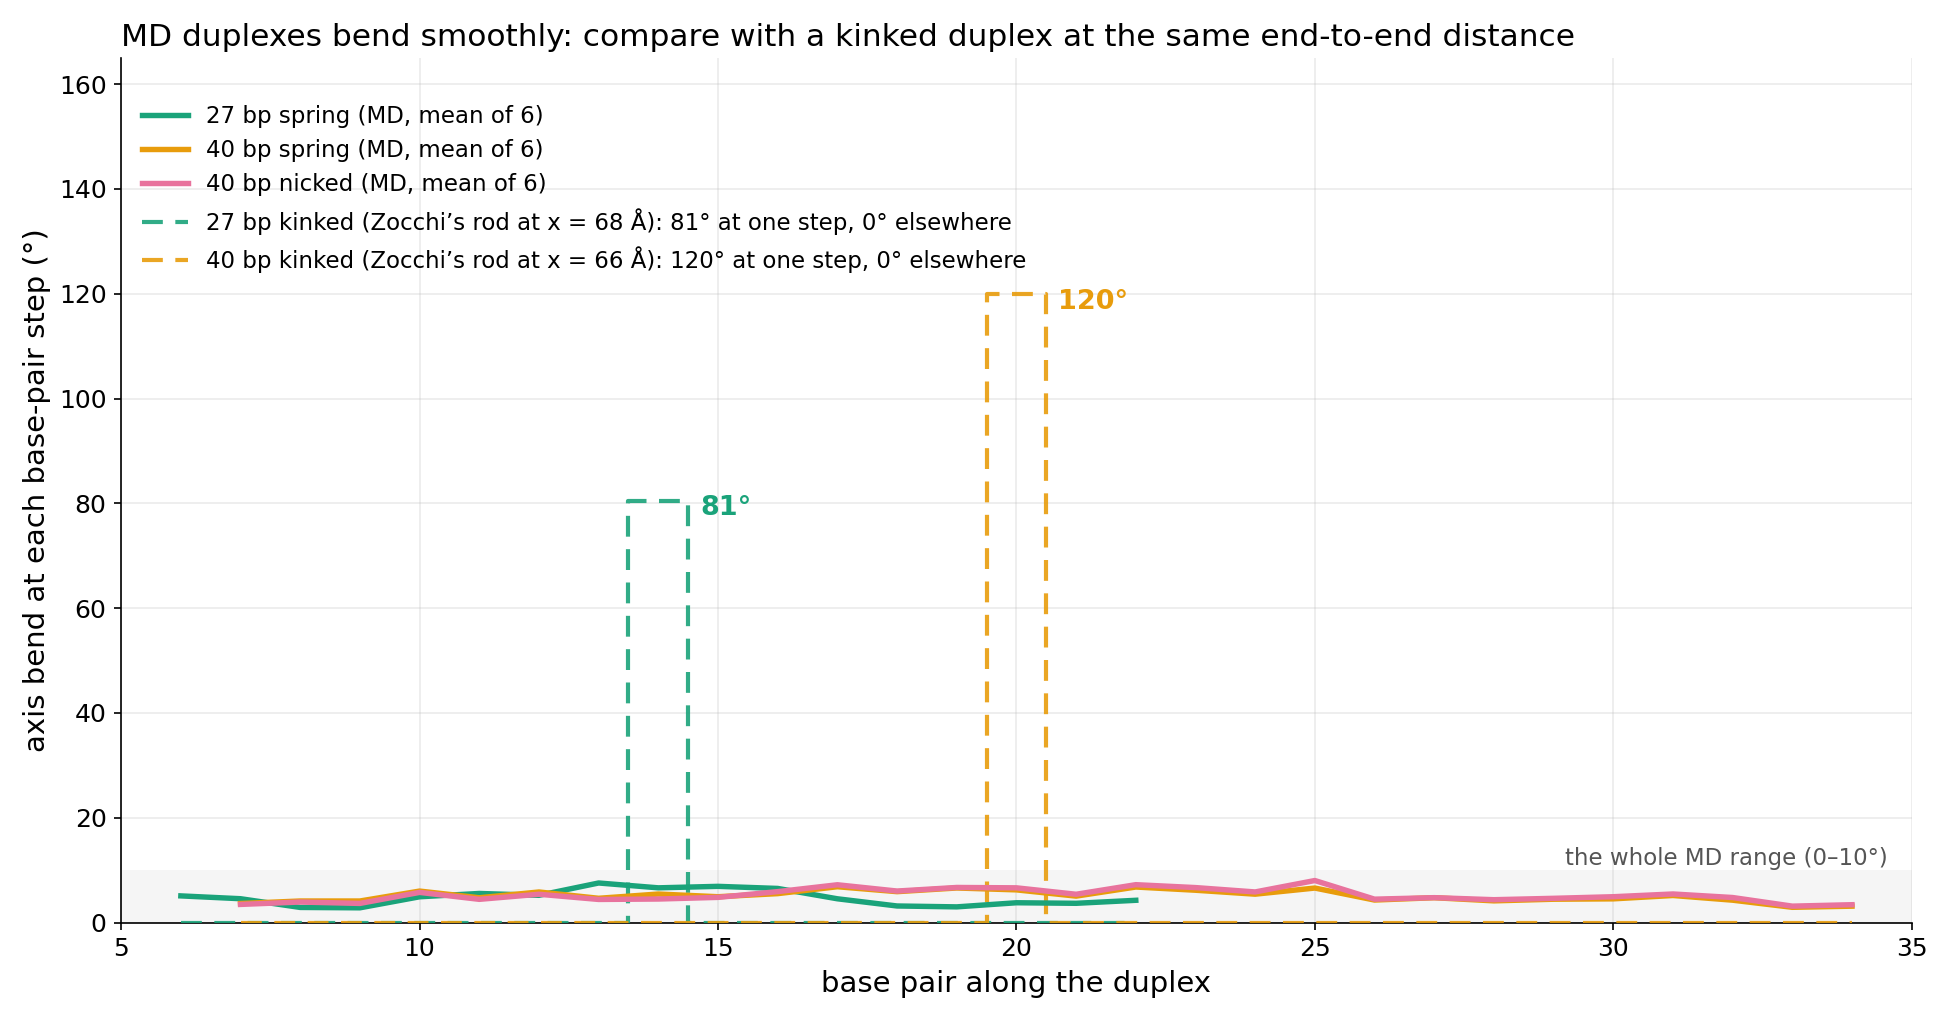
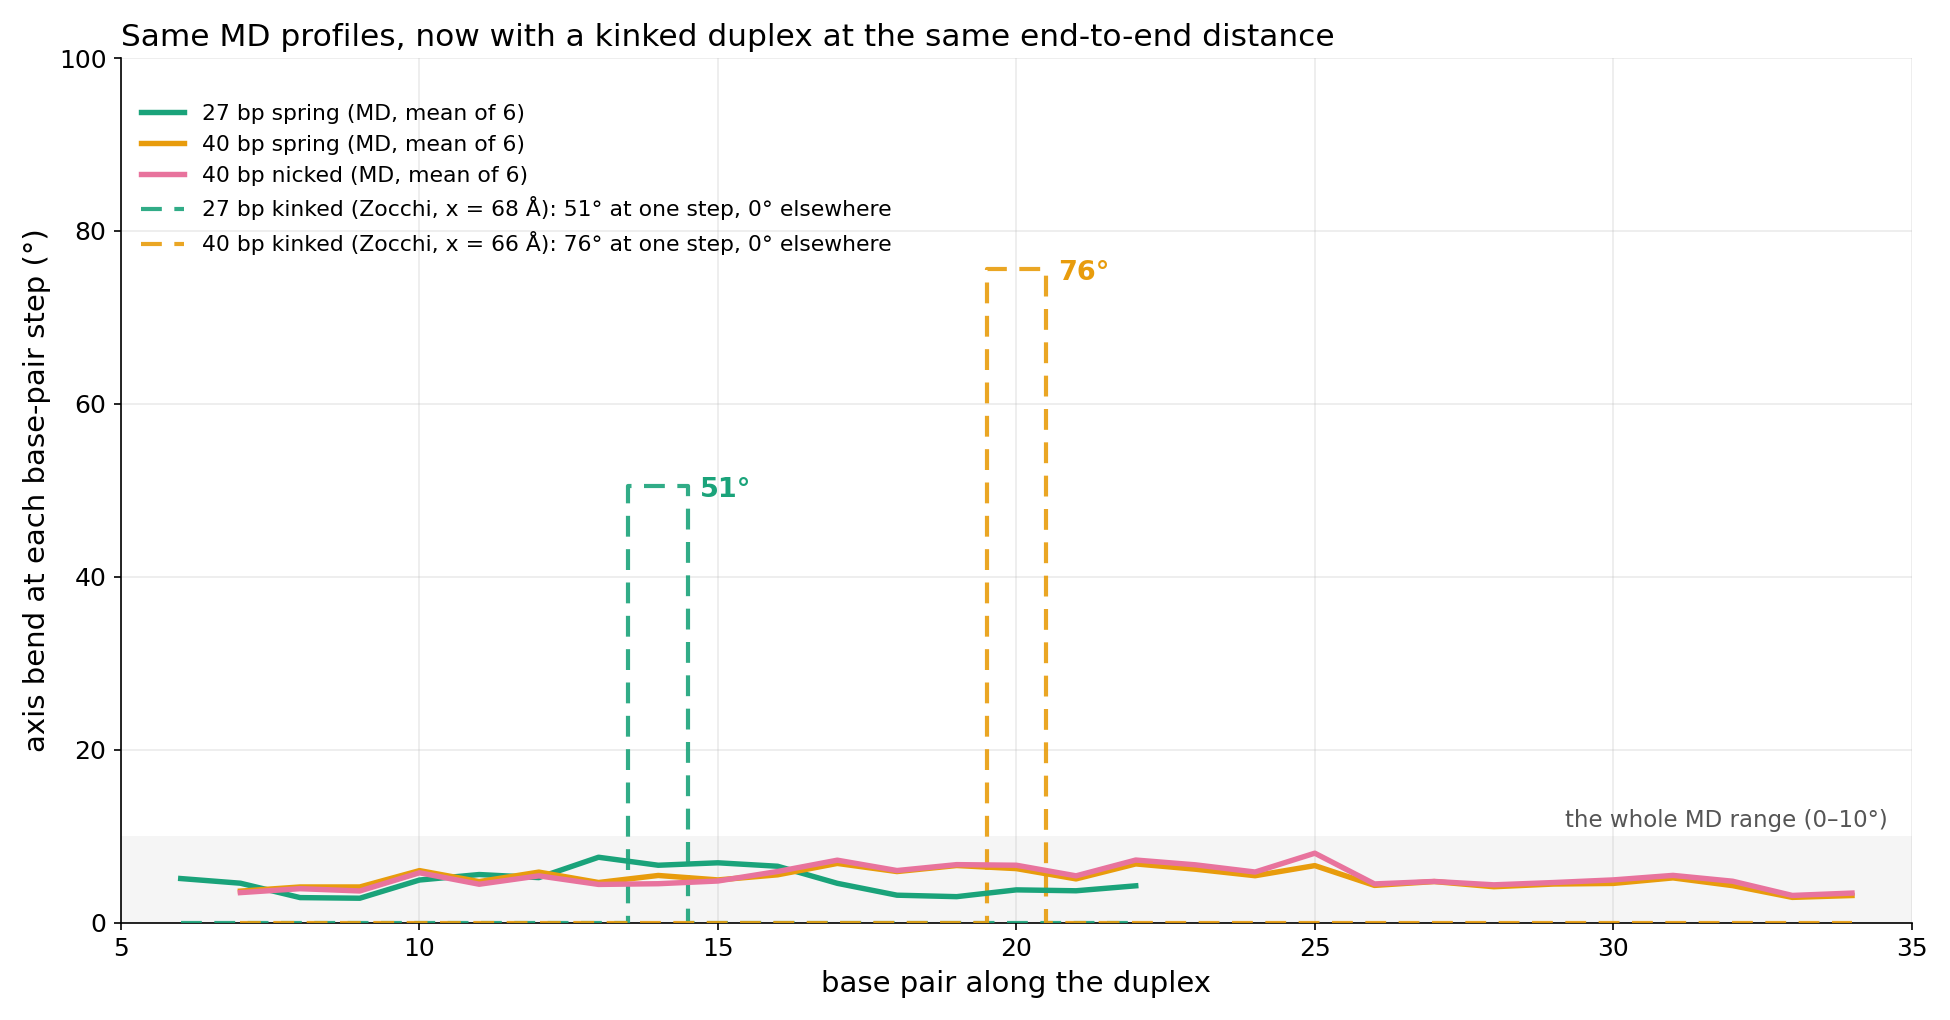
Lab meeting deck: DNA dynamics shows the MD-only bend profiles first, then overlays the Zocchi kink
Kink angles now follow Molecular Machines Fig. 2.31 / eqs 2.177-2.178 (bend = 2 theta,
51 deg for 27 bp, 76 deg for 40 bp) instead of a straight-arm estimate; an equation box
cites the textbook equations.

Claude-Session: https://claude.ai/code/session_01XUYAW9KRYac2ms85dJyAim

diff --git a/presentations/lab-meeting-261029/template.html b/presentations/lab-meeting-261029/template.html
@@ -248,6 +248,10 @@ body {
 .m-aside b { color: var(--ink); }
 .m-aside ul { margin: 8px 0 0; padding-left: 22px; }
 .m-pts.big { gap: 22px; } .m-pts.big .m-pt { font-size: 29px; } .m-pts.big .m-pt::before { top: .5em; }
+.m-eqbox { position: absolute; left: 1290px; top: 690px; width: 566px; background: var(--paper-2); border-left: 6px solid var(--sec, var(--ink-3)); border-radius: 10px; padding: 12px 18px; font-size: 16px; line-height: 1.35; color: var(--ink-2); box-sizing: border-box; opacity: 0; transition: opacity .35s; }
+.m-eqbox.on { opacity: 1; }
+.m-eqbox .tex.d { margin: 2px 0; }
+.m-eqbox .tex.d math { font-size: 1.3em; }
 .m-banner { position: absolute; left: 50%; top: 52%; width: 1380px; transform: translate(-50%, -46%) scale(.96); opacity: 0; pointer-events: none; z-index: 4;
   background: var(--paper); border: 3px solid var(--amber); border-radius: 22px; padding: 44px 56px; box-shadow: 0 0 0 100vmax color-mix(in srgb, var(--paper) 72%, transparent), 0 24px 60px rgba(0,0,0,.28);
   font-size: 36px; line-height: 1.4; color: var(--ink-2); transition: opacity .45s ease, transform .45s ease; }
@@ -1026,6 +1030,9 @@ function buildMedia(el, cfg) {
     if (it.cap) box.appendChild(h('div', 'm-cap', { html: it.cap }));
     el.appendChild(box); return box;
   });
+  // equation box: shown under the points once a point with alt: true is reached
+  const eqBox = cfg.eqbox ? h('div', 'm-eqbox', { html: cfg.eqbox }) : null;
+  if (eqBox) el.appendChild(eqBox);
   if (cfg.q) el.appendChild(h('div', 'm-q', { text: cfg.q, style: { left: ptBox.x + 'px', top: (top + 6) + 'px', width: ptBox.w + 'px' } }));
   const ex = cfg.explain || [], E = ex.length;
   const exBox = h('div', 'm-ex', { style: { left: '64px', top: (top + (cfg.exH || 600) + 24) + 'px', width: '1792px' } });
@@ -1072,6 +1079,7 @@ function buildMedia(el, cfg) {
         return;
       }
       const alt = !!(pts[k - E] && pts[k - E].alt);
+      if (eqBox) eqBox.classList.toggle('on', alt);
       items.forEach((it, i) => place(i, boxes[i], it.over != null ? !alt : items.some(o => o.over === i) && alt));
       exBox.classList.remove('on'); ul.style.opacity = 1; if (qEl) qEl.style.opacity = 1;
       k = k - E + 1;

diff --git a/presentations/lab-meeting-261029/md/dna_bend_kink.py b/presentations/lab-meeting-261029/md/dna_bend_kink.py
@@ -13,33 +13,52 @@ REPO = ROOT.parent.parent
 rows = list(csv.DictReader(open(REPO / 'MD simulations/sfGFP/figures/fig4_dna_bend.csv')))
 SER = [('S3_spring27', '27 bp spring (MD, mean of 6)', '#1aa37a'), ('S4_spring40', '40 bp spring (MD, mean of 6)', '#e89c0c'),
        ('S5_spring40nick', '40 bp nicked (MD, mean of 6)', '#e8739d')]
-def kink_bend(n_bp, x_nm):                       # Zocchi's kinked rod: bend at the apex between two straight arms
-    half = 0.33 * n_bp / 2; h = math.sqrt(half ** 2 - (x_nm / 2) ** 2); return math.degrees(2 * math.atan2(h, x_nm / 2))
+import sys
+sys.path.insert(0, str(REPO / 'MD simulations/sfGFP/analysis'))
+from spring_model import Spring  # noqa: E402
+def kink_bend(n_bp, x_nm):
+    """Bend at the kink, Zocchi Molecular Machines Fig. 2.31: internal angle pi - 2*theta, so bend = 2*theta,
+    theta = arccos(x/2R) - Delta (eq. 2.177), Delta = arccos(x_c/2R) (eq. 2.178), R and x_c from eqs 2.197, 2.194."""
+    sp = Spring(n_bp, tau_c=34.0)
+    return math.degrees(2 * (math.acos(x_nm / (2 * sp.R)) - math.acos(sp.x_c / (2 * sp.R))))
 K = [(27, 6.8, 14, '#1aa37a'), (40, 6.6, 20, '#e89c0c')]   # n_bp, chimera end-to-end (nm), kink position (bp), colour
-fig, ax = plt.subplots(figsize=(13, 6.8), dpi=150)
-marks = {}
-for key, lab, col in SER:
-    pts = [(int(r['bp']), float(r[key])) for r in rows if r[key]]
-    ax.plot(*zip(*pts), color=col, lw=2.6, label=lab, zorder=4)
-    marks['dk_md_' + key] = max(pts, key=lambda p: p[1])
-for n, x, pos, col in K:
-    b = kink_bend(n, x); first = 6 if n == 27 else 7; last = 22 if n == 27 else 34
-    xs = list(range(first, last + 1)); ys = [b if s == pos else 0 for s in xs]
-    ax.step(xs, ys, where='mid', color=col, lw=2, ls=(0, (5, 3)), alpha=.9, zorder=3,
-            label=f'{n} bp kinked (Zocchi’s rod at x = {x * 10:.0f} Å): {b:.0f}° at one step, 0° elsewhere')
-    ax.text(pos + .7, b + 1, f'{b:.0f}°', color=col, fontsize=13, fontweight='bold', va='top')
-    marks[f'dk_kink{n}'] = (pos, b)
-ax.axhspan(0, 10, color='#888', alpha=.08, lw=0)
-ax.text(34.6, 11, 'the whole MD range (0–10°)', ha='right', fontsize=11, color='#555')
-marks['dk_band'] = (27, 6)
-ax.set_xlim(5, 35); ax.set_ylim(0, 165)
-ax.set_xlabel('base pair along the duplex', fontsize=14); ax.set_ylabel('axis bend at each base-pair step (°)', fontsize=14)
-ax.set_title('MD duplexes bend smoothly: compare with a kinked duplex at the same end-to-end distance', fontsize=15, loc='left')
-ax.legend(fontsize=11, frameon=False, loc='upper left', bbox_to_anchor=(0.0, 0.97)); ax.tick_params(labelsize=12); ax.grid(alpha=.25)
-for sp in ('top', 'right'): ax.spines[sp].set_visible(False)
-fig.tight_layout(); fig.canvas.draw(); W, H = fig.canvas.get_width_height()
-anns = {k: [round(float(ax.transData.transform(v)[0]) / W, 3), round(1 - float(ax.transData.transform(v)[1]) / H, 3)] for k, v in marks.items()}
-fig.savefig(ROOT / 'md/sfgfp/fig4_dna_bend_kink.png')
-a = json.loads((ROOT / 'md/anns_sfgfp.json').read_text()); a['fig4_dna_bend_kink.png'] = anns
-(ROOT / 'md/anns_sfgfp.json').write_text(json.dumps(a))
-print({n: round(kink_bend(n, x), 1) for n, x, *_ in K}, anns)
+def draw(kinks):
+    fig, ax = plt.subplots(figsize=(13, 6.8), dpi=150)
+    marks = {}
+    for key, lab, col in SER:
+        pts = [(int(r['bp']), float(r[key])) for r in rows if r[key]]
+        ax.plot(*zip(*pts), color=col, lw=2.6, label=lab, zorder=4)
+        marks['dk_md_' + key] = max(pts, key=lambda p: p[1])
+    if kinks:
+        for n, x, pos, col in K:
+            b = kink_bend(n, x); first = 6 if n == 27 else 7; last = 22 if n == 27 else 34
+            xs = list(range(first, last + 1)); ys = [b if q == pos else 0 for q in xs]
+            ax.step(xs, ys, where='mid', color=col, lw=2, ls=(0, (5, 3)), alpha=.9, zorder=3,
+                    label=f'{n} bp kinked (Zocchi, x = {x * 10:.0f} Å): {b:.0f}° at one step, 0° elsewhere')
+            ax.text(pos + .7, b + 1, f'{b:.0f}°', color=col, fontsize=13, fontweight='bold', va='top')
+            marks[f'dk_kink{n}'] = (pos, b)
+        ax.axhspan(0, 10, color='#888', alpha=.08, lw=0)
+        ax.text(34.6, 11, 'the whole MD range (0–10°)', ha='right', fontsize=11, color='#555')
+        marks['dk_band'] = (27, 6)
+        ax.set_ylim(0, 100)
+        ax.set_title('Same MD profiles, now with a kinked duplex at the same end-to-end distance', fontsize=15, loc='left')
+        ax.legend(fontsize=10.5, frameon=False, loc='upper left', bbox_to_anchor=(0.0, 0.97))
+    else:
+        ax.set_ylim(0, 10)
+        ax.set_title('Axis bend per base-pair step in the MD chimeras (mean of 6 runs each)', fontsize=15, loc='left')
+        ax.legend(fontsize=11, frameon=False, loc='upper right')
+    ax.set_xlim(5, 35)
+    ax.set_xlabel('base pair along the duplex', fontsize=14); ax.set_ylabel('axis bend at each base-pair step (°)', fontsize=14)
+    ax.tick_params(labelsize=12); ax.grid(alpha=.25)
+    for sp in ('top', 'right'): ax.spines[sp].set_visible(False)
+    fig.tight_layout(); fig.canvas.draw(); W, H = fig.canvas.get_width_height()
+    pre = 'k_' if kinks else 'm_'
+    anns = {pre + k: [round(float(ax.transData.transform(v)[0]) / W, 3), round(1 - float(ax.transData.transform(v)[1]) / H, 3)] for k, v in marks.items()}
+    name = 'fig4_dna_bend_kink.png' if kinks else 'fig4_dna_bend_md.png'
+    fig.savefig(ROOT / 'md/sfgfp' / name); plt.close(fig)
+    a = json.loads((ROOT / 'md/anns_sfgfp.json').read_text()); a[name] = anns
+    (ROOT / 'md/anns_sfgfp.json').write_text(json.dumps(a))
+
+
+draw(False); draw(True)
+print({n: round(kink_bend(n, x), 1) for n, x, *_ in K})

diff --git a/presentations/lab-meeting-261029/md/build_md.py b/presentations/lab-meeting-261029/md/build_md.py
@@ -104,17 +104,24 @@ slides = {
     '<b>Effect on force transduction</b>: a kink acts as a <b>release valve</b>. The relaxed arms store almost no energy, so the push is capped by the kink’s critical torque τ<sub>c</sub>: only ≈ 5–7 pN reaches the protein',
     'Squeeze the ends closer: the smooth rod keeps pushing at ≈ its Euler load; the kinked rod stays weak. So whether the DNA kinks decides whether the spring delivers tens of pN or a few. <b>Next</b>: does our DNA kink in MD, and what does Zocchi’s model predict?'])]},
 '12e': {'title': 'sfGFP: DNA dynamics', 'q': 'Is the DNA kinked or coiled? Does it interact with the protein beyond pushing?',
-  'items': [fig(S, 'fig4_dna_bend_kink.png', 'Axis bend per base-pair step: MD chimeras (solid) vs a kinked duplex (dashed)')],
+  'items': [fig(S, 'fig4_dna_bend_md.png', 'Axis bend per base-pair step in the MD chimeras (zoomed: 0–10°)'),
+            dict(fig(S, 'fig4_dna_bend_kink.png', 'Same profiles with a kinked duplex overlaid (0–100°)'), over=0)],
   'explain': [
-    {'item': 0, 'text': 'x-axis: base pair along the duplex; y-axis: <dfn>axis bend</dfn> at each base-pair step (°), the angle between the helix axes either side of it. '
-      '<b>Solid</b>: our MD chimeras (mean of 6 runs each). <b>Dashed</b>: what a <dfn>kinked</dfn> duplex would look like at the same end-to-end distance, Zocchi’s kinked rod: two straight arms (0°) and the whole bend at one step.',
-     'marks': [M('dk_kink27', 'kink: 81° at one step', 30, -60), M('dk_kink40', 'kink: 120°', 30, -50), M('dk_band', 'all MD steps: 3–8°', -30, -60)]}],
+    {'item': 0, 'text': 'x-axis: base pair along the duplex; y-axis: <dfn>axis bend</dfn> at each base-pair step (°), the angle between the helix axes either side of it. Mean of 6 runs per chimera. '
+      'Zoomed to 0–10°, the profiles look jagged: but is any of this a <dfn>kink</dfn>, a sharp break at one step?',
+     'marks': []}],
   'points': [
-    {'text': 'A kink is a single spike of <b>80–120°</b> at one step', 'hl': 0, 'marks': [M('dk_kink27', '81°', 30, -60), M('dk_kink40', '120°', 30, -50)]},
-    {'text': 'The MD duplexes stay at <b>3–8° per step</b> all along: the bend is spread smoothly (4.8–5.2°/bp on average), nucleosome-like', 'hl': 0, 'marks': [M('dk_band', '3–8°', -30, -60)]},
-    {'text': 'Only 0.03–0.83 base pairs open at any instant: the duplex stays <b>intact</b>, no kink formed', 'hl': 0},
-    {'text': 'The DNA touches the protein in 72–98 % of frames (ssDNA loop 93 %): <b>local contact</b>, not action at a distance'},
-    {'text': '<b>Answer</b>: no kink and no coiling; the DNA bends smoothly and lies against the protein'}]},
+    {'text': 'Zoomed in, the MD profiles look spiky: steps vary between <b>3 and 8°</b>', 'hl': 0},
+    {'text': 'Now overlay what a <b>kinked</b> duplex would look like at the same end-to-end distance (Zocchi’s kinked rod): <b>51°</b> (27 bp) and <b>76°</b> (40 bp) at one step, 0° elsewhere', 'hl': 0, 'alt': True,
+     'marks': [M('k_dk_kink27', '51°', 30, -60), M('k_dk_kink40', '76°', 30, -50)]},
+    {'text': 'On the same axis the MD “spikes” vanish into the 0–10° band: the duplex bends <b>smoothly</b>, 4.8–5.2°/bp on average, with no kink', 'hl': 0, 'alt': True, 'marks': [M('k_dk_band', 'all MD steps', -30, -60)]},
+    {'text': 'The DNA touches the protein in 72–98 % of frames: <b>local contact</b>, not action at a distance', 'alt': True},
+    {'text': '<b>Answer</b>: no kink and no coiling; the DNA bends smoothly and lies against the protein', 'alt': True}],
+  'eqbox': '<b>Kink angle</b> (Zocchi, <i>Molecular Machines</i> §2.15, Fig. 2.31): internal angle at the kink π − 2θ, so the duplex bends by 2θ, with'
+    + tex(r'\theta = \arccos\!\Big(\frac{x}{2R}\Big) - \Delta \quad (2.177)', True)
+    + tex(r'\Delta = \arccos\!\Big(\frac{x_c}{2R}\Big) \quad (2.178)', True)
+    + tex(r'R = \frac{L}{2}\Big(1-\frac{\gamma^2}{90}\Big)\ (2.197),\quad x_c = L\Big(1-\frac{\gamma^2}{15}\Big)\ (2.194)', True) + tex(r'\gamma = \frac{L\,\tau_c}{2B}', True)
+    + '27 bp at x = 68 Å: 2θ = 51°; 40 bp at x = 66 Å: 2θ = 76° (τ<sub>c</sub> = 34 pN nm, B = 200 pN nm²)'},
 '12f': {'title': 'Why Zocchi’s model puts our springs in the kinked regime', 'items': [], 'exH': 590,
   'q': 'Zocchi’s equations (Molecular Machines §2.15) evaluated with our MD numbers',
   'points': [
